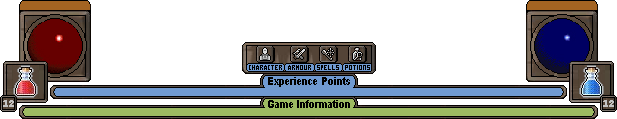
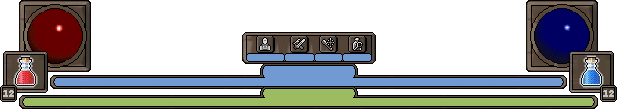
update

Changed region(s): [[0.0, 0.0, 1.0, 0.9908], [0.0308, 0.0, 0.154, 0.3578]]

diff --git a/game_js_scripts/game_js_screens/main_game_interface.js b/game_js_scripts/game_js_screens/main_game_interface.js
@@ -23,35 +23,35 @@
       /***********************************/
     	/* spell object display left panel */
     	/***********************************/
-        this.floating_main_interface.addChild(new game.generic_button_interface(93, 32, "spell_object_button", this.non_floating, this.is_persistent));
-        this.floating_main_interface.addChild(new game.generic_button_interface(130, 32, "spell_object_button", this.non_floating, this.is_persistent));
-        this.floating_main_interface.addChild(new game.generic_button_interface(167, 32, "spell_object_button", this.non_floating, this.is_persistent));
-        this.floating_main_interface.addChild(new game.generic_button_interface(204, 32, "spell_object_button", this.non_floating, this.is_persistent));
+        this.floating_main_interface.addChild(new game.generic_button_interface(93, 42, "spell_object_button", this.non_floating, this.is_persistent));
+        this.floating_main_interface.addChild(new game.generic_button_interface(130, 42, "spell_object_button", this.non_floating, this.is_persistent));
+        this.floating_main_interface.addChild(new game.generic_button_interface(167, 42, "spell_object_button", this.non_floating, this.is_persistent));
+        this.floating_main_interface.addChild(new game.generic_button_interface(204, 42, "spell_object_button", this.non_floating, this.is_persistent));
 
       /************************************/
     	/* spell object display right panel */
     	/************************************/
-      this.floating_main_interface.addChild(new game.generic_button_interface(378, 32, "spell_object_button", this.non_floating, this.is_persistent));
-      this.floating_main_interface.addChild(new game.generic_button_interface(415, 32, "spell_object_button", this.non_floating, this.is_persistent));
-      this.floating_main_interface.addChild(new game.generic_button_interface(452, 32, "spell_object_button", this.non_floating, this.is_persistent));
-      this.floating_main_interface.addChild(new game.generic_button_interface(489, 32, "spell_object_button", this.non_floating, this.is_persistent));
+      this.floating_main_interface.addChild(new game.generic_button_interface(378, 42, "spell_object_button", this.non_floating, this.is_persistent));
+      this.floating_main_interface.addChild(new game.generic_button_interface(415, 42, "spell_object_button", this.non_floating, this.is_persistent));
+      this.floating_main_interface.addChild(new game.generic_button_interface(452, 42, "spell_object_button", this.non_floating, this.is_persistent));
+      this.floating_main_interface.addChild(new game.generic_button_interface(489, 42, "spell_object_button", this.non_floating, this.is_persistent));
 
       /********************************/
     	/* spell expand icon left panel */
     	/********************************/
-        this.floating_main_interface.addChild(new game.generic_button_interface(93, 22, "spell_object_expand", this.non_floating, this.is_persistent));
-        this.floating_main_interface.addChild(new game.generic_button_interface(130, 22, "spell_object_expand", this.non_floating, this.is_persistent));
-        this.floating_main_interface.addChild(new game.generic_button_interface(167, 22, "spell_object_expand", this.non_floating, this.is_persistent));
-        this.floating_main_interface.addChild(new game.generic_button_interface(204, 22, "spell_object_expand", this.non_floating, this.is_persistent));
+        this.floating_main_interface.addChild(new game.generic_button_interface(93, 32, "spell_object_expand", this.non_floating, this.is_persistent));
+        this.floating_main_interface.addChild(new game.generic_button_interface(130, 32, "spell_object_expand", this.non_floating, this.is_persistent));
+        this.floating_main_interface.addChild(new game.generic_button_interface(167, 32, "spell_object_expand", this.non_floating, this.is_persistent));
+        this.floating_main_interface.addChild(new game.generic_button_interface(204, 32, "spell_object_expand", this.non_floating, this.is_persistent));
 
 
       /************************************/
     	/* spell infomation icon left panel */
     	/************************************/
-        this.floating_main_interface.addChild(new game.generic_button_interface(116, 60, "spell_object_information", this.non_floating, this.is_persistent));
-        this.floating_main_interface.addChild(new game.generic_button_interface(155, 60, "spell_object_information", this.non_floating, this.is_persistent));
-        this.floating_main_interface.addChild(new game.generic_button_interface(190, 60, "spell_object_information", this.non_floating, this.is_persistent));
-        this.floating_main_interface.addChild(new game.generic_button_interface(227, 60, "spell_object_information", this.non_floating, this.is_persistent));
+        this.floating_main_interface.addChild(new game.generic_button_interface(116, 70, "spell_object_information", this.non_floating, this.is_persistent));
+        this.floating_main_interface.addChild(new game.generic_button_interface(155, 70, "spell_object_information", this.non_floating, this.is_persistent));
+        this.floating_main_interface.addChild(new game.generic_button_interface(190, 70, "spell_object_information", this.non_floating, this.is_persistent));
+        this.floating_main_interface.addChild(new game.generic_button_interface(227, 70, "spell_object_information", this.non_floating, this.is_persistent));
 
       me.game.world.addChild(this.floating_main_interface, 99)
    },

diff --git a/game_js_scripts/game_js_entities/player_entites/player_entity.js b/game_js_scripts/game_js_entities/player_entites/player_entity.js
@@ -278,39 +278,37 @@ game.player_entity = me.Entity.extend(
 			this.highlight_required = true;
 			this.non_highlight_required = false;
 
-			this.screen_width = me.game.viewport.width;
-			this.screen_height = me.game.viewport.height;
-
-      this.textarea_canvas_height = $(document).height();
-      this.textarea_canvas_width = $(document).width();
-
-      this.size_factor_height = this.textarea_canvas_height/this.screen_height;
-
-      console.log("size factor" + this.size_factor_height);
-
+      this.defined_screen_width = me.game.viewport.width;
+			this.defined_screen_height = me.game.viewport.height;
+      
       /***************************************/
     	/* floating game log panel information */
     	/***************************************/
-			  this.floating_game_log_panel = new game.floating_generic_panel(7,  (this.screen_height - 62), 171, 56, "game_log_dialog_box_min", this.is_floating, this.is_persistent, this.non_moveable);
+			  this.floating_game_log_panel = new game.floating_generic_panel(7,  this.defined_screen_height - 62, 171, 56, "game_log_dialog_box_min", this.is_floating, this.is_persistent, this.non_moveable);
 
-        this.floating_game_log_title  = new game.floating_textbox(21, (this.screen_height * 1.7) - 87, 1, 14, "Game Log Panel", 12);
-
-        this.floating_player_current_sequence = new game.floating_textbox(26, (this.screen_height * 1.7) - 55, 1, 44, "Player current sequence events", 9)
-        this.floating_player_previous_sequence = new game.floating_textbox(26, (this.screen_height * 1.7) - 17, 1, 50, "Player previous sequence events", 9)
-
-        this.floating_game_log_time = new game.floating_textbox(232, (this.screen_height * 1.7) - 87, 1, 10, (this.display_time.getHours().toString().padStart(2, '0') + ":" 
-                                    + this.display_time.getMinutes().toString().padStart(2, '0') + ":" + this.display_time.getMinutes().toString().padStart(2, '0')).toString(), 12);
-        window.setInterval(() => { 
+      /******************************************/
+			/* floating game log current time display */
+			/******************************************/
+        this.floating_game_log_time = new game.floating_textbox(184, this.defined_screen_height - 62, 1, 10, (this.display_time.getHours().toString().padStart(2, '0') + ":" + this.display_time.getMinutes().toString().padStart(2, '0') + ":" + this.display_time.getMinutes().toString().padStart(2, '0')).toString(), 13);
+      /******************************************/
+      /* floating game log updated time display */
+      /******************************************/
+       window.setInterval(() => { 
                                     this.display_time = new Date(Date.now());
                                     this.floating_game_log_time.updateGameLogText(this.display_time.getHours().toString().padStart(2, '0') + ":" + this.display_time.getMinutes().toString().padStart(2, '0') + ":" + this.display_time.getSeconds().toString().padStart(2, '0'));
                                   },900);	
+      /********************************************/
+      /* floating game log player sequence events */
+      /********************************************/
+        this.floating_player_current_sequence = new game.floating_textbox(15, this.defined_screen_height - 44, 1, 40, "Player current sequence events", 10);
+        this.floating_player_previous_sequence = new game.floating_textbox(13, this.defined_screen_height - 22, 1, 50, "Player previous sequence events", 10);
 	
 			/*********************************************/
 			/* floating game log player text information */
 			/*********************************************/
-      
-
-      
+        this.floating_game_log_panel.addChild(new game.floating_textbox(12, this.defined_screen_height - 62, 1, 13, "Game Log Panel", 12), 100);
+			  this.floating_game_log_panel.addChild(this.floating_player_current_sequence, 100);
+        this.floating_game_log_panel.addChild(this.floating_player_previous_sequence, 100);
 
 			/***********************************/
 			/* display floating game log panel */

diff --git a/game_js_scripts/game_js_screens/game_play.js b/game_js_scripts/game_js_screens/game_play.js
@@ -6,6 +6,7 @@ game.play_screen = me.Stage.extend({
      */
     onResetEvent: function() 
     {	
+			this.display_time = new Date(Date.now());
 
 			this.is_floating = true;
 			this.non_floating = false;
@@ -16,9 +17,14 @@ game.play_screen = me.Stage.extend({
 			this.highlight_required = true;
 			this.non_highlight_required = false;
 
-			this.screen_width = me.game.viewport.width;
-			this.screen_height = me.game.viewport.height;
+			this.defined_screen_width = me.game.viewport.width;
+			this.defined_screen_height = me.game.viewport.height;
 
+			console.log("true inner width" + window.innerWidth.toString());
+
+			this.screen_ratio = window.innerWidth / this.defined_screen_width;
+
+			console.log("ratio " + this.screen_ratio);
       /*********************/
       /* load castle level */
       /*********************/
@@ -68,8 +74,6 @@ game.play_screen = me.Stage.extend({
 				/***************************/
     		/* end static game display */
     		/***************************/
-		
-				
 
 			/**************************************/
     	/* floating message panel information */
@@ -83,14 +87,16 @@ game.play_screen = me.Stage.extend({
 			/**********************************/
     	/* floating map panel information */
     	/**********************************/
-				this.floating_map_panel = new game.floating_generic_panel(this.screen_width - 110, 5, 105, 126, "map_interface", this.is_floating, this.is_persistent, this.is_moveable);
+				this.floating_map_panel = new game.floating_generic_panel(this.defined_screen_width - 110, 5, 105, 138, "map_interface", this.is_floating, this.is_persistent, this.is_moveable);
 
+				this.floating_map_panel_title = new game.floating_textbox(this.defined_screen_width - 88, 5, 1, 13, "Game Map Panel", 12);
+				me.game.world.addChild(this.floating_map_panel_title, 100);
 			/**********************/
     	/* floating map icons */
     	/*********************/
-				this.floating_map_panel.addChild(new game.generic_button_interface(3, 3, "map_attach", this.non_floating, this.is_persistent));
-				this.floating_map_panel.addChild(new game.generic_button_interface(84, 3, "map_minimize", this.non_floating, this.is_persistent));
-				this.floating_map_panel.addChild(new game.generic_button_interface(3, 105, "map_node_points", this.non_floating, this.is_persistent));
+				this.floating_map_panel.addChild(new game.generic_button_interface(3, 15, "map_attach", this.non_floating, this.is_persistent));
+				this.floating_map_panel.addChild(new game.generic_button_interface(84, 15, "map_minimize", this.non_floating, this.is_persistent));
+				this.floating_map_panel.addChild(new game.generic_button_interface(3, 117, "map_node_points", this.non_floating, this.is_persistent));
 
 				/******************************/
     		/* display floating map panel */
@@ -100,13 +106,6 @@ game.play_screen = me.Stage.extend({
     	/* end */
     	/*******/
     },
-
-		onActivateEvent: function () {
-			me.event.subscribe(me.event.WINDOW_ONRESIZE, function () {
-			this.videoPos = me.video.getPos();
-			console.log("resize");
-			});
-		},
     
     /**************************************************************/
     /*  action to perform when leaving this screen (state change) */

diff --git a/game_js_scripts/game_js_screens/floating_text_box.js b/game_js_scripts/game_js_screens/floating_text_box.js
@@ -4,9 +4,16 @@ game.floating_textbox = me.Renderable.extend(
 	{
 		init: function (floating_text_posX, floating_text_posY, floating_text_box_width, floating_text_box_height, floating_text_field, floating_text_size) {
 			this._super(me.Renderable, "init", [0, 0, floating_text_box_width, floating_text_box_height]);
+
+			this.defined_screen_width = me.game.viewport.width;
+			this.defined_screen_height = me.game.viewport.height;
+
+			this.screen_ratioX = window.innerWidth / this.defined_screen_width;
+			this.screen_ratioY = window.innerHeight / this.defined_screen_height;
+
       this.$text = $('<textarea = text required>').css({
-        "left" : floating_text_posX,
-        "top" : floating_text_posY,
+        "left" : (Math.round(floating_text_posX * this.screen_ratioX)),
+        "top" : (Math.round(floating_text_posY * this.screen_ratioY)),
     });
 		
     switch ("text") {
@@ -15,11 +22,13 @@ game.floating_textbox = me.Renderable.extend(
 				this.$text.attr("readonly", "readonly");
 				this.$text.attr("rows",floating_text_box_width);
 				this.$text.attr("cols",floating_text_box_height);
+				this.$text.prop("disabled", true);
 				$(this.$text).css({'color':'white'});
 				$(this.$text).css({'font-size':floating_text_size});
 				$(this.$text).css({'background-color':'rgba(0,0,0,0)'});
 				$(this.$text).css({'border-color':'rgba(0,0,0,0)'});
 				$(this.$text).css({'resize':'none'});
+				$(this.$text).css({'focus':'none'});
         break;
     }
     $(me.video.getWrapper()).append(this.$text);
@@ -34,8 +43,8 @@ setColourGameLogText : function (colour_type) {
 },
 
 updateGameLogPositionText : function(posX, posY) {
-	this.$text.attr("left", posX);
-	this.$text.attr("top", posY);
+	this.$text.css({"left": posX });
+	this.$text.css({"top": posY });
 },
 
 retrievGameLogText : function() {

diff --git a/game_js_scripts/game_js_screens/generic_floating_panel_text.js b/game_js_scripts/game_js_screens/generic_floating_panel_text.js
@@ -1,0 +1,41 @@
+game = game || {};
+
+/************************/
+/* floating text entity */
+/************************/
+game.generic_floating_panel_text = me.Renderable.extend(
+  {
+    /***************/
+    /* constructor */
+    /***************/
+    init: function(floating_text_string, floating_text_font_size, floating_text_position_x,floating_text_position_y) 
+    {
+     /**************************/
+      /* generic text font/size */
+      /**************************/
+      this.floating_text = new me.Text(0, 0, {
+          font: "game_arial_font",
+          size: floating_text_font_size.toString() + "px",
+          fillStyle: "white",
+          textAlign: "top",
+          textBaseline: "bottom"
+      });
+      this.floating_text_position_x = floating_text_position_x;
+      this.floating_text_position_y = floating_text_position_y;
+      this.floating_text_string = floating_text_string;
+      this._super(me.Renderable, "init", [this.floating_text_position_x, this.floating_text_position_y, 0, 0]);
+    },
+
+    updateGameLogText : function(game_log_text) {
+      this.floating_text_string = game_log_text;
+    },
+
+    /*********************************/
+    /* bit mapped font draw function */
+    /*********************************/
+    draw : function(renderer) 
+    {
+        this.floating_text.draw(renderer, this.floating_text_string, this.floating_text_position_x, this.floating_text_position_y); 
+    }
+  });
+    

diff --git a/game_js_scripts/game_js_screens/floating_generic_panel.js b/game_js_scripts/game_js_screens/floating_generic_panel.js
@@ -25,13 +25,14 @@ game.floating_generic_panel = me.Container.extend(
         /********************/
         /* panel background */
         /********************/
-
         this.floating_panel_sprite = game.interface_sprites.createSpriteFromName(this.panel_sprite_name + "_normal");
         this.width = this.floating_panel_sprite.width;
         this.height = this.floating_panel_sprite.height;
         this.floating_panel_sprite.anchorPoint.set(0.0, 0.0);
 				this.addChild(this.floating_panel_sprite);
+
         
+
         // input status flags
         this.selected = false;
         this.hover = false;
@@ -69,7 +70,6 @@ game.floating_generic_panel = me.Container.extend(
      */
     pointerMove: function (event) {
       this.hover = this.getBounds().containsPoint(event.gameX, event.gameY);
-      console.log("hover " + this.hover);
 				if(this.isMoveable)
         {
           if (this.selected) 

diff --git a/index.html b/index.html
@@ -18,6 +18,7 @@
 	<body>
 		<!-- game screen canvas placeholder -->
 			<div id="screen"></div>
+			<div id="screen textarea"></div>
     	<!-- end canvas placeholder -->
         
 		<!-- melonJS Library -->
@@ -41,6 +42,7 @@
 				<script type = "text/javascript" src="game_js_scripts/game_js_screens/generic_button_interface.js"></script>
 				<script type = "text/javascript" src="game_js_scripts/game_js_screens/floating_generic_panel.js"></script>
 				<script type = "text/javascript" src="game_js_scripts/game_js_screens/floating_text_box.js"></script>
+				<script type = "text/javascript" src="game_js_scripts/game_js_screens/generic_floating_panel_text.js"></script>
 
 			<!-- game dialog window script -->
 			<!--	<script type="text/javascript" src="game_js_scripts/dialog_window.js"></script> -->

diff --git a/game_js_scripts/game_resources.js b/game_js_scripts/game_resources.js
@@ -76,4 +76,11 @@ game.resources = [
         /* map tilesets (tsx) */
         /**********************/
         {name: "world01_area01_castle",  type: "tsx", src: "game_data/game_maps/game_world01/map_castle_level/world01_area01_castle.tsx"},
+
+        /***************/
+        /* game fonts  */
+        /***************/
+        {name: "game_arial_font",  type: "image", src: "game_data/game_fonts/arial_font.png"},
+        {name: "game_arial_font",  type: "binary", src: "game_data/game_fonts/arial_font.fnt"},
+
 ];
